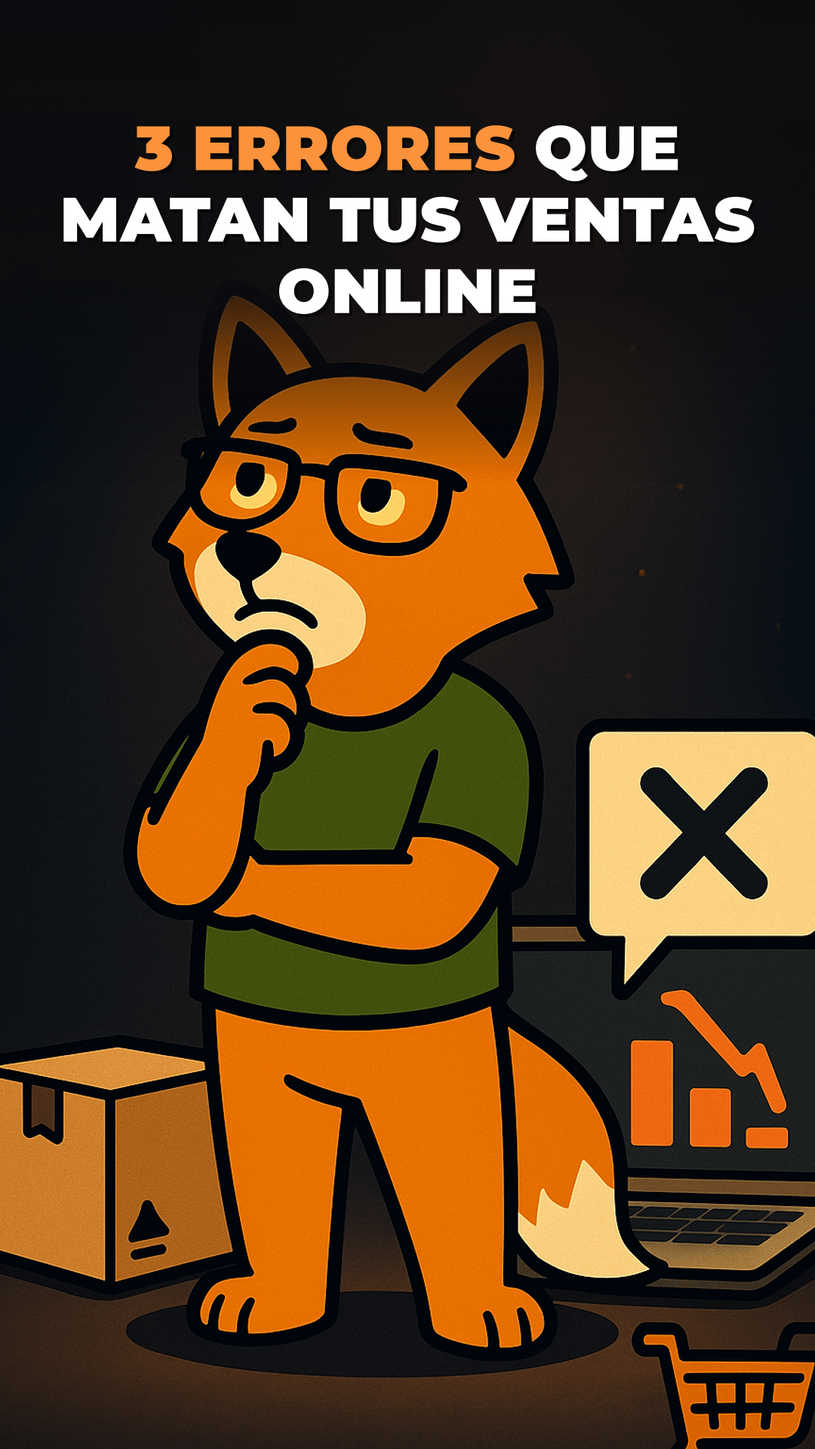
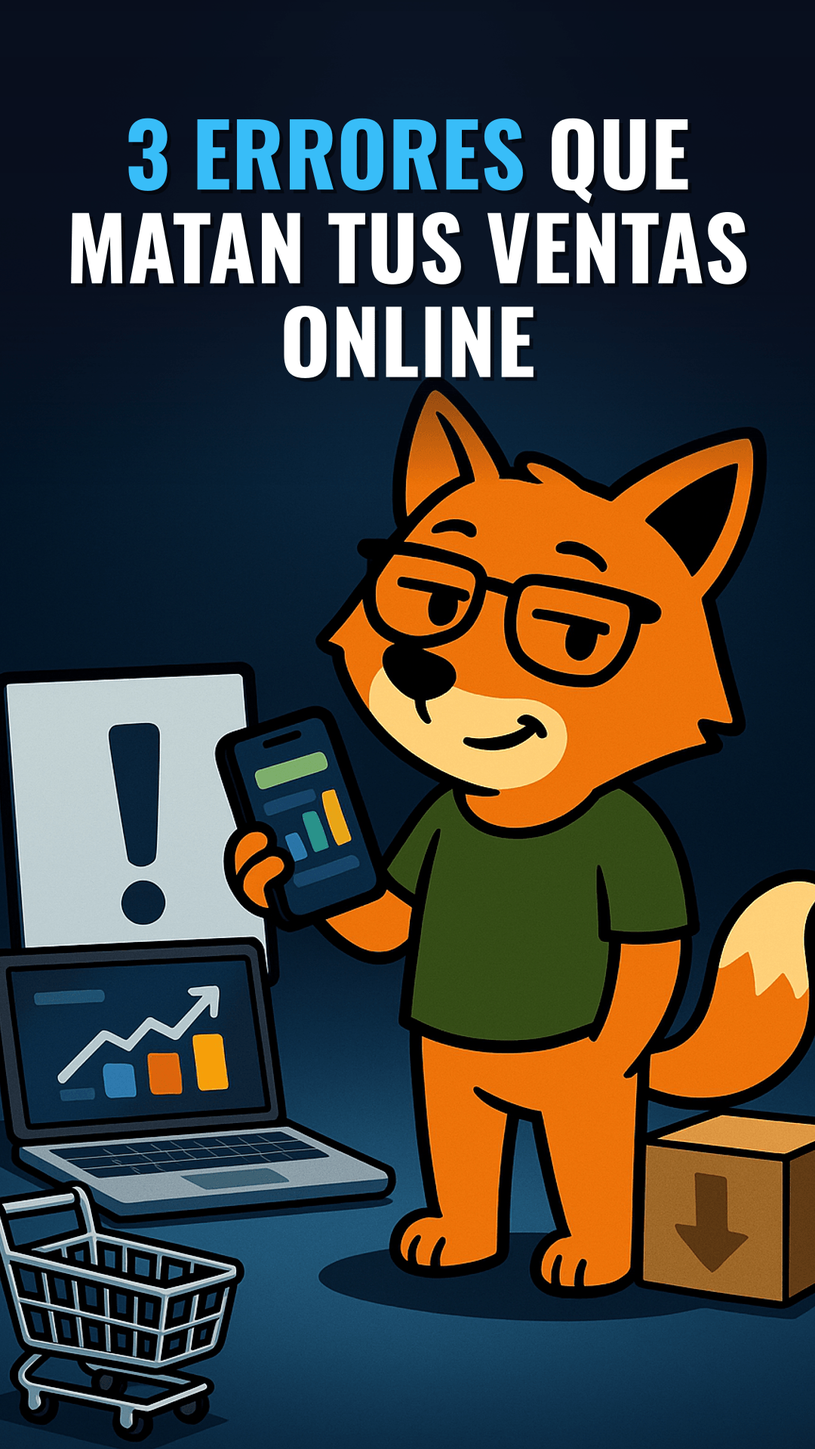
Update agent assets and refine API server cover generation logic
Replit-Commit-Author: Agent

diff --git a/artifacts/api-server/src/lib/cover-style.ts b/artifacts/api-server/src/lib/cover-style.ts
@@ -1,14 +1,15 @@
-// Sistema de direcciones de arte para portadas verticales (TikTok / 9:16).
+// Sistema de dirección de arte para portadas verticales (TikTok / 9:16).
 //
-// Antes todas las portadas compartían UNA receta fija (fondo slate + glow
-// naranja + franja amarilla con texto blanco). Ahora cada portada combina:
-//   · una DIRECCIÓN DE ARTE rotativa (fondo, luz, paleta, tipografía propia),
-//   · un detalle escenográfico aleatorio dentro de la dirección,
+// Identidad visual aprobada por el usuario: ESTUDIO SPOTLIGHT — el zorro Webi
+// (flat cartoon, referencia master) parado en un estudio fotográfico en
+// penumbra, bajo un foco de luz. Cada portada combina:
+//   · una VARIANTE de iluminación del estudio (color/posición de la luz,
+//     paleta y tipografía propias), con memoria FIFO anti-repetición,
+//   · un detalle escenográfico aleatorio dentro de la variante,
 //   · una pose del banco de poses (pose-bank),
+//   · UTILERÍA REAL del set — props físicos apoyados e iluminados por el
+//     foco, JAMÁS stickers/iconos flotantes — que cuenta el tema del video,
 //   · palabras del título destacadas en color de acento.
-// La selección usa memoria FIFO anti-repetición: dos portadas seguidas nunca
-// comparten dirección. El zorro Webi (flat cartoon, referencia master) se
-// mantiene intacto: lo que cambia es TODO lo demás.
 
 import { readFile } from "fs/promises";
 import path from "path";
@@ -29,7 +30,7 @@ const TEXT_SIDE_PADDING = 60;
 /* ========================= Tipos ========================================= */
 
 export interface EstiloTitular {
-  /** "display" = Bebas Neue (condensada, alto impacto) · "sans" = Montserrat Black. */
+  /** "display" = Oswald Bold (condensada, alto impacto) · "sans" = Montserrat Black. */
   fuente: "display" | "sans";
   /** "chips" = cada línea sobre una placa redondeada · "limpio" = texto directo con sombra. */
   modo: "chips" | "limpio";
@@ -48,6 +49,7 @@ export interface DireccionArte {
   nombre: string;
   /** Bloque de prompt que describe el fondo/atmósfera (NO el personaje). */
   fondo: string;
+  /** Paleta de la utilería y cómo se comporta bajo la luz de esta variante. */
   paletaObjetos: string;
   /** Detalles escenográficos: se elige 1 al azar para que cada portada sea única. */
   detalles: string[];
@@ -58,34 +60,14 @@ export interface DireccionArte {
 
 export const DIRECCIONES_PORTADA: DireccionArte[] = [
   {
-    id: "neon_nocturno",
-    nombre: "Neón nocturno",
-    fondo: `Ciudad nocturna abstracta y elegante: gradiente vertical de azul índigo profundo (#0B1026 arriba, casi negro) a violeta oscuro (#1E1B4B) hacia abajo. Siluetas minimalistas de edificios al fondo en un tono apenas más claro. Dos o tres trazos de luz de neón (cian #22D3EE y magenta #E879F9) como líneas geométricas elegantes detrás del zorro, con glow suave. El piso refleja levemente los neones como pavimento mojado (reflejos sutiles, no espejo). La franja superior se mantiene en el azul índigo más oscuro y plano, limpia.`,
-    paletaObjetos: `objetos flat con contorno negro grueso en cian eléctrico, magenta, naranja del zorro y blanco; pequeños acentos de glow neón en bordes de pantallas u objetos tecnológicos`,
-    detalles: [
-      "una luna llena pequeña y estilizada con halo suave en una esquina lateral del cielo, a media altura",
-      "lluvia fina sugerida con trazos diagonales muy sutiles al 8% de opacidad",
-      "un cartel de neón ABSTRACTO (formas geométricas, sin letras) colgando a un costado",
-    ],
-    titular: {
-      fuente: "display",
-      modo: "chips",
-      colorTexto: "#FFFFFF",
-      colorAcento: "#22D3EE",
-      chipFondo: "#0E1130",
-      scrim: { r: 11, g: 16, b: 38 },
-      inclinacion: -1.5,
-    },
-  },
-  {
     id: "estudio_spotlight",
-    nombre: "Estudio spotlight",
+    nombre: "Estudio spotlight ámbar",
     fondo: `Estudio fotográfico premium en penumbra: fondo carbón (#101012 arriba) a gris grafito (#26262B) hacia el piso, como un ciclorama infinito. Un spotlight cónico cálido cae desde arriba sobre el zorro, iluminando un círculo suave en el piso; partículas de polvo diminutas flotan visibles dentro del haz de luz. Sombra elíptica suave y marcada bajo el zorro. Todo fuera del haz queda en penumbra elegante. La franja superior es carbón casi negro, limpia y plana.`,
-    paletaObjetos: `objetos flat con contorno negro grueso en naranja cálido, blanco marfil y verde de la marca; los objetos dentro del haz de luz se ven saturados, con leve borde de luz cálida`,
+    paletaObjetos: `utilería en tonos cálidos: naranja, madera clara, blanco marfil y el verde de la marca; los props dentro del haz se ven cálidos y saturados, los que quedan al borde del círculo de luz caen en penumbra`,
     detalles: [
       "un segundo haz de luz lateral tenue de color ámbar cruzando el fondo en diagonal",
-      "un círculo de escenario (tarima baja redonda) bajo el zorro, estilo flat",
-      "humo bajo muy sutil arrastrándose por el piso, apenas visible",
+      "una tarima circular baja de escenario bajo el zorro, iluminada por el foco",
+      "humo bajo muy sutil arrastrándose por el piso, apenas visible dentro del haz",
     ],
     titular: {
       fuente: "sans",
@@ -97,121 +79,140 @@ export const DIRECCIONES_PORTADA: DireccionArte[] = [
     },
   },
   {
-    id: "aurora_gradiente",
-    nombre: "Aurora gradiente",
-    fondo: `Gradiente rico y moderno tipo aurora: violeta profundo (#31104F) en la franja superior, fundiéndose en magenta (#831843) al centro y naranja quemado (#7C2D12) cerca del piso, con GRANO fino de película sobre todo el fondo (textura sutil, no ruido fuerte). Dos formas orgánicas de "vidrio esmerilado" translúcido flotan detrás del zorro desenfocadas, captando el gradiente. Piso apenas más oscuro que el fondo con sombra suave bajo el zorro. La franja superior se mantiene en el violeta más profundo, limpia.`,
-    paletaObjetos: `objetos flat con contorno negro grueso en amarillo dorado, magenta claro, blanco y el naranja del zorro`,
+    id: "estudio_medianoche",
+    nombre: "Estudio medianoche",
+    fondo: `Estudio fotográfico en penumbra azul noche: ciclorama infinito de azul carbón (#0A0F1E arriba) a azul grafito (#182136) hacia el piso. Un spotlight cónico de luz FRÍA azul hielo cae desde arriba sobre el zorro, dibujando un círculo de luz fría en el piso; un rim light cian muy sutil recorta la silueta del zorro. Fuera del haz, penumbra azulada elegante. Sombra elíptica nítida bajo el zorro. La franja superior es azul casi negro, plana y limpia.`,
+    paletaObjetos: `utilería en azules fríos, plateado, blanco y el naranja del zorro como único acento cálido; los props toman la luz fría del haz con brillos suaves de lado`,
     detalles: [
-      "estrellas diminutas dispersas solo en el tercio medio, como polvo brillante",
-      "un arco delgado de luz dorada curvándose detrás del zorro como un halo gigante",
-      "burbujas de vidrio pequeñas flotando a un costado, semitransparentes",
-    ],
-    titular: {
-      fuente: "display",
-      modo: "chips",
-      colorTexto: "#2A0E3F",
-      colorAcento: "#C026D3",
-      chipFondo: "#FFFFFF",
-      scrim: { r: 42, g: 14, b: 63 },
-      inclinacion: -2,
-    },
-  },
-  {
-    id: "taller_papel",
-    nombre: "Taller de papel",
-    fondo: `Collage de papel recortado hecho a mano: fondo azul petróleo profundo (#082F49 arriba, #0C4A6E abajo) con textura de papel sutil. Capas de "papel recortado" en tonos petróleo más claros forman colinas u ondas superpuestas en el tercio inferior, cada capa con su sombra suave proyectada (efecto profundidad de diorama). Algunos trozos de cinta adhesiva decorativa (washi tape) en las esquinas de las capas. El zorro está "parado" sobre la capa frontal del diorama. La franja superior es papel azul petróleo oscuro, limpia.`,
-    paletaObjetos: `objetos flat como recortes de papel con contorno negro grueso, en coral #FF6B4A, crema, amarillo mostaza y el verde de la marca, cada uno con sombrita de papel`,
-    detalles: [
-      "nubes de papel recortado con sombra flotando a un costado a media altura",
-      "un sol de papel con rayos geométricos asomándose por un borde lateral",
-      "pequeñas montañas de papel plegado al fondo del diorama",
-    ],
-    titular: {
-      fuente: "sans",
-      modo: "chips",
-      colorTexto: "#FFFFFF",
-      colorAcento: "#FFE08A",
-      chipFondo: "#FF6B4A",
-      scrim: { r: 6, g: 36, b: 58 },
-      inclinacion: 1.5,
-    },
-  },
-  {
-    id: "blueprint_tech",
-    nombre: "Blueprint técnico",
-    fondo: `Plano técnico de ingeniería premium: fondo azul blueprint profundo (#101F46 arriba, #1E3A8A muy sutil abajo). Líneas técnicas blancas finas al 8% de opacidad: una cuadrícula de plano, círculos de compás, flechas de cota y trazos de esquema rodeando la zona media SIN saturar. Detrás del zorro, un "esquema técnico" abstracto dibujado en líneas blancas finas (como si el escenario estuviera siendo diseñado). Piso con línea de horizonte técnica y sombra elíptica bajo el zorro. Franja superior azul profundo plano, limpia.`,
-    paletaObjetos: `objetos flat con contorno negro grueso en verde lima #A3E635, blanco, cian claro y el naranja del zorro; algunos objetos con esquinas "marcadas" con cruces técnicas`,
-    detalles: [
-      "un engranaje gigante delineado (solo contorno fino blanco) girado detrás de la escena",
-      "reglas y escuadras delineadas flotando a un costado como marcas de agua",
-      "una espiral de compás delineada en una esquina lateral media",
+      "un telón de fondo azul noche con pliegues suaves apenas insinuados en la penumbra",
+      "un segundo haz cian rasante entrando desde un costado a la altura del piso",
+      "un reflejo frío apenas perceptible del zorro sobre el piso pulido",
     ],
     titular: {
       fuente: "display",
       modo: "limpio",
       colorTexto: "#FFFFFF",
-      colorAcento: "#A3E635",
-      scrim: { r: 13, g: 25, b: 60 },
+      colorAcento: "#38BDF8",
+      scrim: { r: 10, g: 15, b: 30 },
       inclinacion: 0,
     },
   },
   {
-    id: "selva_digital",
-    nombre: "Selva digital",
-    fondo: `Jungla estilizada nocturna: gradiente de verde bosque casi negro (#04210F arriba) a verde profundo (#14532D) abajo. Hojas tropicales GRANDES estilo flat (monstera, palma) enmarcan las esquinas inferiores y un borde lateral, en verdes más claros con contorno oscuro, algunas por delante creando profundidad. Luciérnagas doradas como puntos de luz suaves dispersos en la zona media. Sombra suave bajo el zorro sobre un claro del suelo. La franja superior es verde casi negro, limpia y sin hojas.`,
-    paletaObjetos: `objetos flat con contorno negro grueso en dorado #FBBF24, verde claro, blanco y el naranja del zorro, integrados como si estuvieran en el claro de la selva`,
+    id: "estudio_esmeralda",
+    nombre: "Estudio esmeralda",
+    fondo: `Estudio fotográfico en penumbra verde profundo: ciclorama de verde casi negro (#06120D arriba) a verde bosque oscuro (#123227) hacia el piso. Un spotlight cónico verde esmeralda suave cae desde arriba sobre el zorro con partículas finas flotando en el haz. Una neblina baja muy tenue se arrastra por el piso alrededor del círculo de luz. Sombra elíptica suave bajo el zorro. Fuera del haz, penumbra verdosa elegante. La franja superior es verde casi negro, plana y limpia.`,
+    paletaObjetos: `utilería en verdes profundos, dorado apagado, crema y el naranja del zorro; los props dentro del haz toman un matiz esmeralda suave en su cara iluminada`,
     detalles: [
-      "un rayo de luna verdosa cayendo en diagonal entre las hojas",
-      "flores tropicales flat de color naranja asomando entre las hojas de un costado",
-      "una liana con una hoja colgando desde un borde lateral, a media altura",
+      "una cortina de terciopelo verde oscuro asomando con su caída por un borde lateral",
+      "una tarima circular baja bajo el zorro, con el canto apenas iluminado",
+      "motas de polvo doradas visibles solo dentro del haz de luz",
     ],
     titular: {
       fuente: "sans",
       modo: "chips",
       colorTexto: "#FFFFFF",
-      colorAcento: "#FBBF24",
-      chipFondo: "#06301B",
-      scrim: { r: 4, g: 26, b: 12 },
+      colorAcento: "#6EE7B7",
+      chipFondo: "#0B2E20",
+      scrim: { r: 5, g: 18, b: 13 },
       inclinacion: -1.5,
     },
   },
   {
-    id: "pop_brutalista",
-    nombre: "Pop brutalista",
-    fondo: `Diseño gráfico pop brutalista de alto contraste: fondo dividido en bloques geométricos GRANDES y diagonales de negro humo (#0D0D0F) y naranja de marca (#E86A30), con un bloque blanco roto pequeño como acento. Patrón de semitono (puntos halftone) grande y visible dentro de UNO de los bloques. Formas geométricas gruesas (círculo, flecha maciza, zigzag) como elementos decorativos con contorno negro. El zorro se para sobre el borde de un bloque como si fuera una tarima. La franja superior cae dentro del bloque NEGRO, plana y limpia.`,
-    paletaObjetos: `objetos flat con contorno negro extra grueso en blanco, negro y naranja SOLAMENTE (paleta restringida de 3 colores + el verde de la polera del zorro)`,
+    id: "estudio_purpura",
+    nombre: "Estudio púrpura",
+    fondo: `Estudio fotográfico en penumbra púrpura: ciclorama de púrpura casi negro (#120A1E arriba) a violeta profundo (#251540) hacia el piso. Un spotlight cónico violeta suave cae desde arriba sobre el zorro; partículas brillantes diminutas flotan SOLO dentro del haz. Un segundo haz magenta muy tenue cruza el fondo en diagonal sin tocar al zorro. Sombra elíptica marcada bajo el zorro. Fuera de los haces, penumbra púrpura elegante. La franja superior es púrpura casi negro, plana y limpia.`,
+    paletaObjetos: `utilería en violetas profundos, magenta apagado, plata y el naranja del zorro; la cara iluminada de cada prop toma el matiz violeta del haz`,
     detalles: [
-      "una flecha maciza naranja apuntando hacia el zorro desde un costado",
-      "un círculo de semitono gigante detrás del zorro como sol pop",
-      "tres líneas de velocidad gruesas cruzando un bloque en diagonal",
+      "un telón púrpura profundo con caída suave insinuado al fondo en penumbra",
+      "un aro de luz tenue dibujado en el piso alrededor del círculo del foco",
+      "una siluetas de focos de estudio con trípode en penumbra a un costado del fondo",
     ],
     titular: {
       fuente: "display",
       modo: "chips",
       colorTexto: "#FFFFFF",
-      colorAcento: "#FF7A29",
-      chipFondo: "#111114",
-      scrim: { r: 13, g: 13, b: 15 },
-      inclinacion: -2.5,
+      colorAcento: "#E879F9",
+      chipFondo: "#1C1030",
+      scrim: { r: 16, g: 10, b: 28 },
+      inclinacion: -2,
     },
   },
   {
-    id: "atardecer_retro",
-    nombre: "Atardecer retro",
-    fondo: `Atardecer retro-moderno suave: gradiente de púrpura profundo (#2B1147 arriba) a durazno (#F97362) en el horizonte bajo. Un sol grande estilizado con 3-4 bandas horizontales recortadas se hunde tras montañas en silueta minimalista púrpura oscuro. Nubes alargadas flat en rosa y naranja cruzan el cielo medio. El piso es una llanura en sombra púrpura con la sombra del zorro alargada hacia un costado por la luz del atardecer. La franja superior es púrpura profundo casi plano, limpia.`,
-    paletaObjetos: `objetos flat con contorno negro grueso en rosa #FF8FB1, dorado #FFD166, blanco cálido y el naranja del zorro`,
+    id: "estudio_carmesi",
+    nombre: "Estudio carmesí",
+    fondo: `Estudio fotográfico en penumbra dramática: ciclorama de negro humo (#0C0A0A arriba) a granate muy oscuro (#221114) hacia el piso. Un spotlight cónico de luz roja cálida cae desde arriba sobre el zorro, con humo fino y elegante atravesando el haz. El círculo de luz en el piso es rojizo y suave. Sombra elíptica intensa bajo el zorro. Fuera del haz, penumbra casi negra. La franja superior es negro humo, plana y limpia.`,
+    paletaObjetos: `utilería en rojos profundos, negro, gris humo y el naranja del zorro; la cara iluminada de cada prop se tiñe del rojo cálido del foco y la opuesta cae en penumbra`,
     detalles: [
-      "pájaros lejanos como pequeñas 'v' oscuras cruzando el cielo medio",
-      "una franja de destello dorado horizontal justo sobre el horizonte",
-      "palmeras o cactus en silueta minimalista en un borde lateral",
+      "volutas de humo fino cruzando el haz a media altura, apenas visibles",
+      "un telón carmesí muy oscuro con pliegues insinuados al fondo",
+      "un borde de luz roja rasante recortando el piso desde un costado",
     ],
     titular: {
       fuente: "sans",
       modo: "limpio",
-      colorTexto: "#FFF7ED",
-      colorAcento: "#FFD166",
-      scrim: { r: 43, g: 17, b: 71 },
+      colorTexto: "#FFFFFF",
+      colorAcento: "#F87171",
+      scrim: { r: 14, g: 9, b: 10 },
       inclinacion: 0,
+    },
+  },
+  {
+    id: "estudio_dorado",
+    nombre: "Estudio dorado lateral",
+    fondo: `Estudio fotográfico en penumbra con luz LATERAL dorada: ciclorama de carbón (#111013 arriba) a bronce muy oscuro (#241A0E) hacia el piso. Un haz dorado cálido entra desde UN COSTADO a media altura (no desde arriba), iluminando al zorro de lado: una mitad cálida y brillante, la otra en penumbra suave. La sombra del zorro se proyecta ALARGADA hacia el lado opuesto de la luz. Motas de polvo flotan visibles dentro del haz lateral. La franja superior es carbón casi negro, plana y limpia.`,
+    paletaObjetos: `utilería en dorados, madera oscura, crema y el naranja del zorro; cada prop con su mitad hacia la luz dorada encendida y la otra mitad en penumbra, sombras alargadas como la del zorro`,
+    detalles: [
+      "un panel softbox de estudio en silueta al fondo, apenas visible en penumbra",
+      "una franja de luz dorada barriendo el piso en diagonal desde el costado iluminado",
+      "polvo dorado suspendido denso solo dentro del haz lateral",
+    ],
+    titular: {
+      fuente: "display",
+      modo: "limpio",
+      colorTexto: "#FFF8E7",
+      colorAcento: "#FBBF24",
+      scrim: { r: 18, g: 14, b: 8 },
+      inclinacion: 0,
+    },
+  },
+  {
+    id: "estudio_contraluz",
+    nombre: "Estudio contraluz",
+    fondo: `Estudio fotográfico con contraluz cálido: ciclorama de carbón oscuro (#0E0C0B arriba) a marrón humo (#1E1510) hacia el piso. Un resplandor naranja cálido difuso brilla DETRÁS del zorro a la altura del piso (como un foco apuntando hacia la cámara desde atrás, oculto por el personaje), creando un rim light naranja marcado en todo su contorno. Una luz de relleno frontal suave mantiene visibles los colores del zorro. Halo de luz difusa alrededor de su silueta. Sombra proyectada hacia adelante. La franja superior es carbón casi negro, plana y limpia.`,
+    paletaObjetos: `utilería en marrones cálidos, ámbar, crema y el naranja del zorro; los props cercanos al resplandor se recortan a contraluz con su propio borde de luz naranja`,
+    detalles: [
+      "siluetas de dos focos de estudio con trípode en penumbra a los costados del fondo",
+      "un destello de lente sutil y elegante justo en el borde del hombro del zorro",
+      "neblina fina retroiluminada de naranja flotando a la altura del piso",
+    ],
+    titular: {
+      fuente: "sans",
+      modo: "chips",
+      colorTexto: "#FFFFFF",
+      colorAcento: "#FDBA74",
+      chipFondo: "#1A120C",
+      scrim: { r: 16, g: 11, b: 7 },
+      inclinacion: 1.5,
+    },
+  },
+  {
+    id: "estudio_duotono",
+    nombre: "Estudio duotono cine",
+    fondo: `Estudio fotográfico con iluminación cruzada de cine: ciclorama de grafito oscuro (#121116 arriba a #1C1B22 abajo). Dos luces cruzadas bañan la escena: un haz ÁMBAR cálido desde un costado y un haz AZUL frío desde el costado opuesto, tiñendo cada mitad del ciclorama con su temperatura. El zorro recibe un doble rim light sutil (borde cálido de un lado, frío del otro) manteniendo sus colores planos reconocibles. Dos sombras suaves cruzadas bajo el zorro. Neblina muy fina revela ambos haces. La franja superior es grafito casi negro, plana y limpia.`,
+    paletaObjetos: `utilería en neutros (gris, negro mate, blanco) más el naranja del zorro; cada prop toma ámbar por un lado y azul por el otro, igual que el personaje`,
+    detalles: [
+      "un piso grafito con doble reflejo tenue (cálido y frío) bajo el zorro",
+      "los dos haces visibles como conos de luz cruzados gracias a la neblina fina",
+      "un taburete de estudio de madera en penumbra al borde de la escena",
+    ],
+    titular: {
+      fuente: "display",
+      modo: "chips",
+      colorTexto: "#FFFFFF",
+      colorAcento: "#F59E0B",
+      chipFondo: "#141318",
+      scrim: { r: 12, g: 12, b: 16 },
+      inclinacion: -1.5,
     },
   },
 ];
@@ -265,8 +266,16 @@ PERSONAJE - ESTILO FLAT CARTOON (copiar EXACTAMENTE de la imagen de referencia a
 
 ESCENA A ILUSTRAR:
 TEMA DEL VIDEO: "${tema}"
-${extraEstilo ? `ESTILO ADICIONAL PEDIDO POR EL USUARIO: ${extraEstilo}\n` : ""}Construye una MINI-ESCENA con profundidad alrededor del zorro que cuente visualmente el tema: 2 a 4 objetos de apoyo RELEVANTES al tema (ni uno más), algunos ligeramente detrás del zorro y otros delante, agrupados hacia UN lado para dejar aire al otro lado. El zorro SIEMPRE anclado al piso con su sombra suave — nunca flotando. PROHIBIDO el collage de iconos y PROHIBIDO rodear al zorro de objetos por todos lados.
-Los objetos deben ser ESPECÍFICOS de este tema, no genéricos: PROHIBIDO el kit cliché de marketing (cohete, embudo, carrito de compras, lupa, gráfico de barras genérico) salvo que el título los mencione literalmente. Pregúntate qué objetos reales saldrían en una foto editorial sobre este tema exacto y dibuja ESOS en flat cartoon, integrados a la escenografía de la dirección de arte.
+${extraEstilo ? `ESTILO ADICIONAL PEDIDO POR EL USUARIO: ${extraEstilo}\n` : ""}Construye una MINI-ESCENA DE SET FOTOGRÁFICO alrededor del zorro que cuente visualmente el tema: 2 a 4 piezas de UTILERÍA relevantes al tema (ni una más), algunas ligeramente detrás del zorro y otras delante, agrupadas hacia UN lado para dejar aire al otro lado. El zorro SIEMPRE anclado al piso con su sombra suave — nunca flotando.
+
+UTILERÍA REAL, NO STICKERS (CRÍTICO - NO NEGOCIABLE):
+- Cada objeto es un PROP FÍSICO del set: tiene volumen, materiales creíbles (cartón, madera, metal, tela, vidrio, plástico) y está APOYADO en el piso del estudio o sobre otro objeto — NUNCA flotando en el aire
+- Cada objeto recibe la MISMA luz de la escena: cara iluminada hacia el foco, cara opuesta en penumbra, y proyecta su sombra sobre el piso en la MISMA dirección que la sombra del zorro
+- Escala natural respecto al zorro: una caja es una caja real, un notebook es de tamaño real, nada de miniaturas ni gigantes decorativos
+- Los objetos alejados del haz de luz quedan parcialmente en penumbra, fundidos con la atmósfera del estudio
+- PROHIBIDO: objetos estilo sticker/pegatina/icono plano, contornos gruesos negros alrededor de los objetos, objetos flotantes, glow o borde de recorte, collage de iconos, rodear al zorro de objetos por todos lados
+- PROHIBIDO TAMBIÉN: símbolos abstractos dibujados en el aire — signos de interrogación o exclamación, flechas, gráficos, corazones, monedas o estrellas flotantes. Si necesitas comunicar una idea abstracta, ponla DENTRO de un objeto físico del set: una pizarra o letrero apoyado con el símbolo impreso, una pantalla encendida mostrando el gráfico, una caja de cartón con el símbolo estampado en su cara
+La utilería debe ser ESPECÍFICA de este tema, no genérica: PROHIBIDO el kit cliché de marketing (cohete, embudo, carrito de compras, lupa, gráfico de barras) — y si el título menciona uno de estos literalmente, se dibuja como objeto FÍSICO real del set (un carrito de supermercado de metal de tamaño real parado en el piso, por ejemplo), jamás como icono. Pregúntate qué utilería pondría un director de arte en una foto editorial sobre este tema exacto y pon ESA en el set.
 
 ZONA SUPERIOR VACÍA (CRÍTICO - NO NEGOCIABLE):
 - El 35% SUPERIOR de la imagen (de 0px a 670px desde arriba) debe ser ÚNICAMENTE el fondo de la dirección de arte en su versión más plana y oscura, SIN elementos
@@ -274,15 +283,15 @@ ZONA SUPERIOR VACÍA (CRÍTICO - NO NEGOCIABLE):
 - Toda la acción visual comienza DEBAJO del píxel 670
 
 CONTRASTE DE ESTILOS (IMPORTANTE):
-- El ZORRO y los OBJETOS se dibujan en estilo FLAT CARTOON: contornos gruesos negros, colores planos y vibrantes, sin degradados ni sombras realistas
-- El FONDO es una dirección de arte trabajada y atmosférica (ver abajo), con profundidad, luz y textura
-- Este contraste entre personaje cartoon sobre fondo cinematográfico es intencional: es la firma visual de la marca
+- SOLO el ZORRO se dibuja en estilo FLAT CARTOON: contornos gruesos negros, colores planos y vibrantes, sin degradados
+- El FONDO y la UTILERÍA pertenecen al mundo del set: iluminación cinematográfica, volumen y sombreado suave, SIN contornos gruesos de cartoon en los objetos
+- Este contraste — la mascota cartoon parada dentro de un set fotográfico estilizado con props reales — es la firma visual de la marca
 
 DIRECCIÓN DE ARTE DEL FONDO — "${direccion.nombre}" (solo el fondo, NO el personaje):
 ${direccion.fondo}
 DETALLE ÚNICO DE ESTA PORTADA: ${detalle}
 
-PALETA DE OBJETOS DE APOYO:
+UTILERÍA — PALETA Y COMPORTAMIENTO BAJO LA LUZ:
 ${direccion.paletaObjetos}
 
 RECUERDA: CERO TEXTO. Ni una sola letra o número en NINGUNA parte de la imagen. El zorro debe verse EXACTAMENTE como en la referencia (flat cartoon), protagonista sobre un fondo "${direccion.nombre}" trabajado y con atmósfera.

diff --git a/artifacts/api-server/scripts/demo-portadas.ts b/artifacts/api-server/scripts/demo-portadas.ts
@@ -27,7 +27,10 @@ async function main() {
   setupFonts();
   const outDir = path.join(process.cwd(), "public", "uploads", "covers");
   await mkdir(outDir, { recursive: true });
-  for (const demo of DEMOS) {
+  // SOLO=demo-1.png,demo-2.png para regenerar un subconjunto.
+  const solo = process.env.SOLO?.split(",").map(s => s.trim());
+  const seleccion = solo ? DEMOS.filter(d => solo.includes(d.archivo)) : DEMOS;
+  for (const demo of seleccion) {
     const t0 = Date.now();
     const { direccion, pose, prompt } = prepararPortada(`${demo.titulo}. ${demo.tema}`);
     console.log(`→ ${demo.archivo}: dirección=${direccion.id}, pose=${pose.id}`);

diff --git a/.agents/memory/cover-art-direction.md b/.agents/memory/cover-art-direction.md
@@ -1,0 +1,16 @@
+---
+name: Dirección de arte de portadas
+description: Decisión de diseño aprobada por el usuario para las portadas verticales (TikTok) y lecciones de prompt-engineering de utilería.
+---
+
+# Dirección de arte de portadas verticales
+
+## Identidad aprobada: familia "Estudio spotlight"
+Regla: TODAS las portadas verticales usan la familia "estudio fotográfico en penumbra con foco de luz" — la variedad viene de variantes de iluminación (color/posición de la luz: ámbar, medianoche, esmeralda, púrpura, carmesí, dorado lateral, contraluz, duotono), NO de mundos visuales distintos. El zorro Webi sigue flat cartoon (referencia master intacta).
+**Why:** el usuario (2026-07-26) aprobó explícitamente el demo "Estudio spotlight" y pidió "sigamos este estilo desde ahora", descartando el banco anterior de 8 mundos dispares (neón, selva, papel, etc.).
+**How to apply:** cualquier variante nueva de portada debe ser otra iluminación del mismo estudio; no reintroducir mundos ajenos al set fotográfico salvo pedido explícito.
+
+## Utilería real, jamás stickers
+Regla: los objetos de apoyo son props físicos del set — apoyados en el piso o sobre otro objeto, con volumen, iluminados por el mismo foco (cara iluminada/cara en penumbra) y con sombra proyectada coherente. Prohibido: iconos/pegatinas con contorno grueso, objetos flotantes, y símbolos abstractos dibujados en el aire ("?", flechas, gráficos) — una idea abstracta va IMPRESA en un objeto físico (pizarra, pantalla encendida, caja estampada).
+**Why:** feedback crítico del usuario ("muy pero muy importante"): los stickers pegados encima matan la sensación de portada trabajada. Los modelos de imagen tienden a dibujar símbolos flotantes cuando la pose expresa emoción (confusión → "?") y a colar el kit cliché de marketing (cohete/embudo/carrito) en temas de negocio: hay que prohibirlos nombrándolos explícitamente Y dar la alternativa física.
+**How to apply:** al editar el prompt de ilustración en el sistema de portadas, mantener el bloque "UTILERÍA REAL, NO STICKERS" y la regla de símbolos-en-objetos; instruir al zorro flat cartoon pero utilería con volumen sin contornos cartoon.

diff --git a/.agents/memory/MEMORY.md b/.agents/memory/MEMORY.md
@@ -9,3 +9,4 @@
 - [Handoffs & playbooks](handoffs-playbooks.md) — claim-then-release idempotency in handoff_log; atomic jsonb append for board writes from background jobs; DST-safe Santiago scheduling.
 - [Monorepo lib builds](monorepo-lib-builds.md) — after task merges, run pnpm install + tsc -b on lib/* before assuming merged code is broken; custom user names must never be overwritten by Google profile on login.
 - [Render de portadas](cover-rendering.md) — librsvg pierde espacios en bordes de tspan (unir con &#160;); fuentes nix invisibles para fontconfig → empaquetar TTFs + FONTCONFIG_FILE al boot.
+- [Dirección de arte portadas](cover-art-direction.md) — estilo único aprobado: familia "estudio spotlight" (variantes de luz); utilería física real, jamás stickers ni símbolos flotantes.
